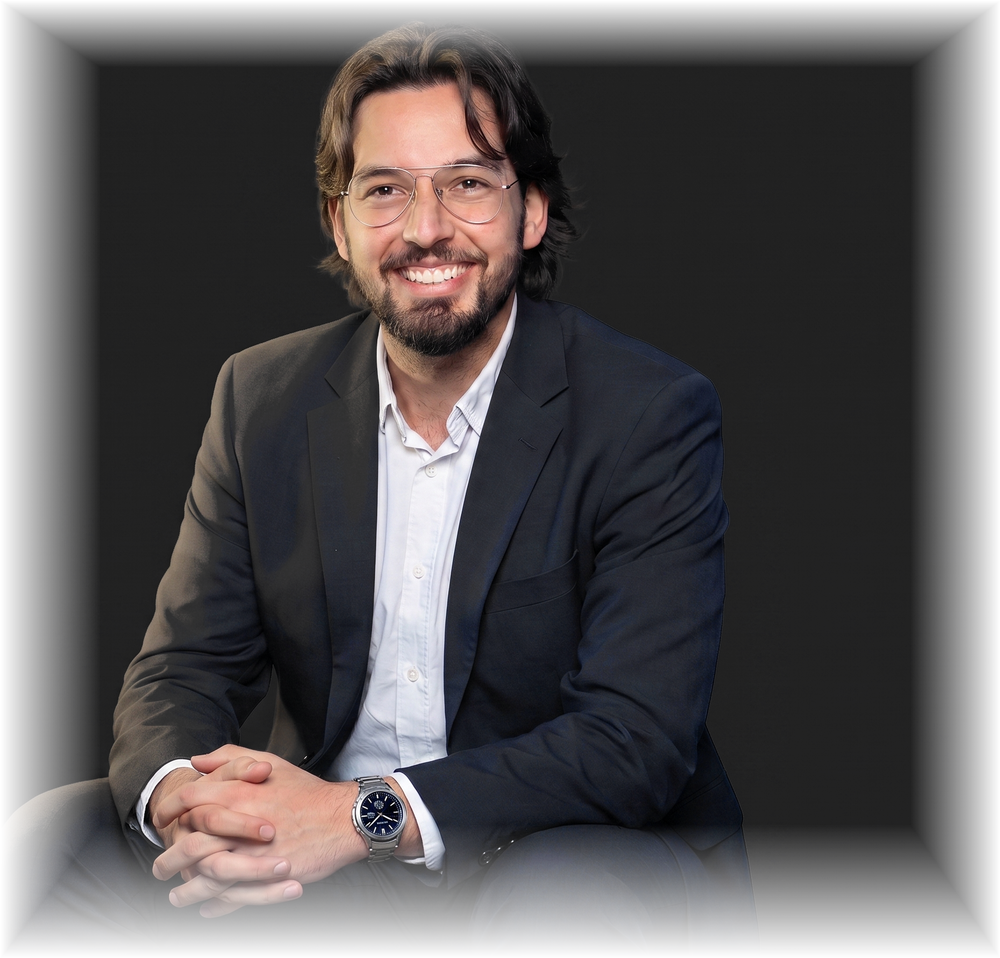
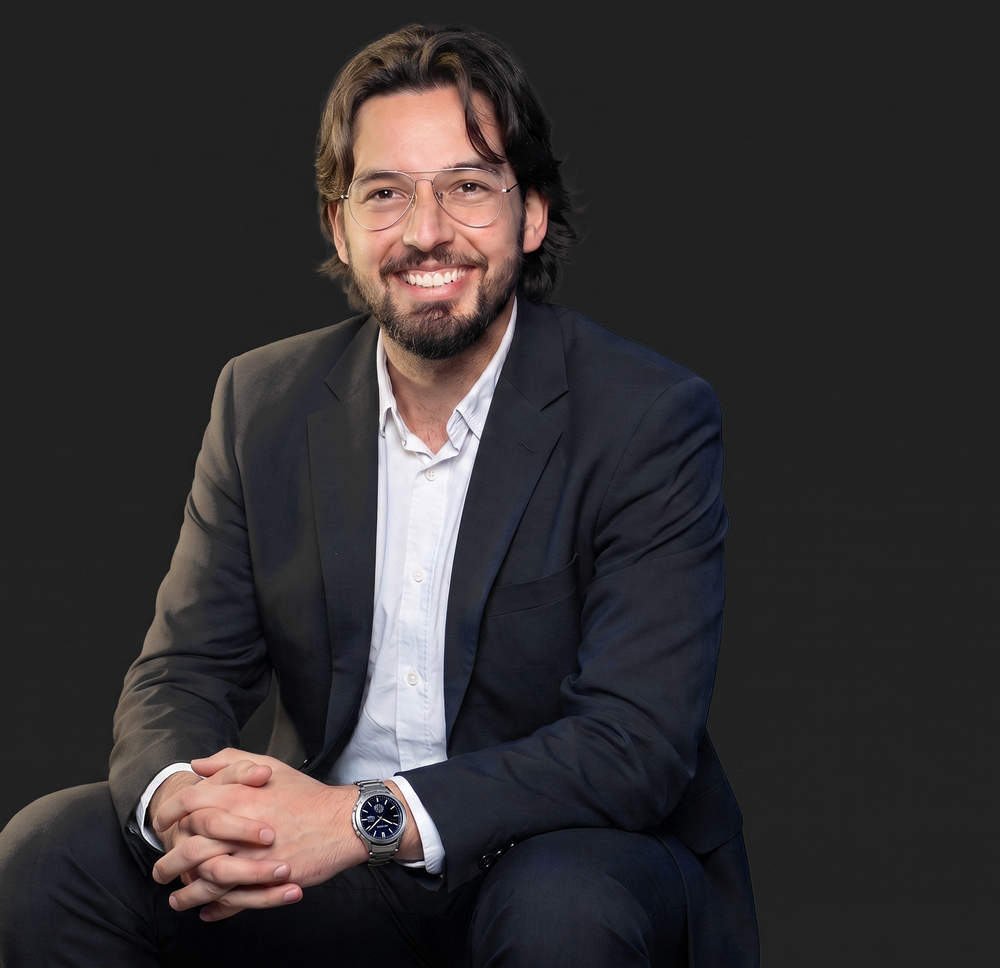
hero: difuminado solo en el borde inferior (rodilla no cortada); laterales y arriba nitidos

diff --git a/assets/css/styles.css b/assets/css/styles.css
@@ -169,11 +169,11 @@ ul { list-style: none; }
 /* cutout: sin panel ni borde → el recorte va POR ENCIMA de la ficha */
 /* variante recortada / fondo blanco que se funde con el hero */
 /* cutout completo (aspecto natural, sin recorte lateral) + desvanecido solo abajo */
-.hero__photo--cutout img { height: auto; object-fit: contain; border: 0; border-radius: 0; box-shadow: none; }
-/* foto clara: recorte transparente que se funde por abajo */
-.hero__photo--cutout .hero-light { -webkit-mask-image: linear-gradient(to bottom, #000 74%, transparent 100%);
-  mask-image: linear-gradient(to bottom, #000 74%, transparent 100%); }
-/* foto oscura (estudio, bordes ya fundidos): solo se muestra en modo oscuro */
+.hero__photo--cutout img { height: auto; object-fit: contain; border: 0; border-radius: 0; box-shadow: none;
+  /* difuminado SOLO abajo (para que la rodilla no se vea cortada); laterales y arriba nítidos */
+  -webkit-mask-image: linear-gradient(to bottom, #000 85%, transparent 100%);
+  mask-image: linear-gradient(to bottom, #000 85%, transparent 100%); }
+/* foto oscura (estudio): solo se muestra en modo oscuro */
 .hero__photo--cutout .hero-dark { display: none; }
 :root[data-theme="dark"] .hero__photo--cutout .hero-light { display: none; }
 :root[data-theme="dark"] .hero__photo--cutout .hero-dark { display: block; }
